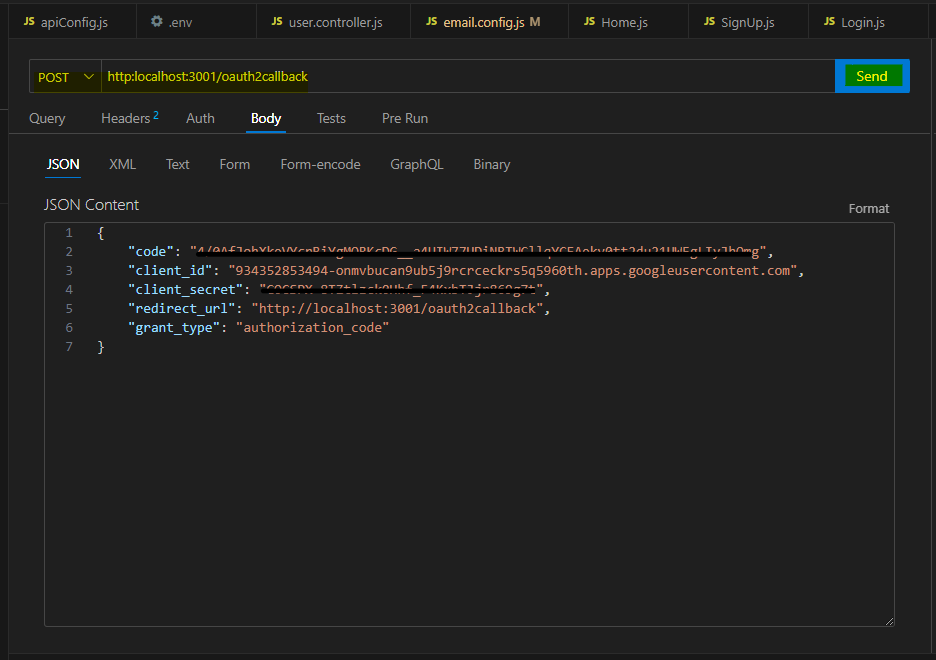
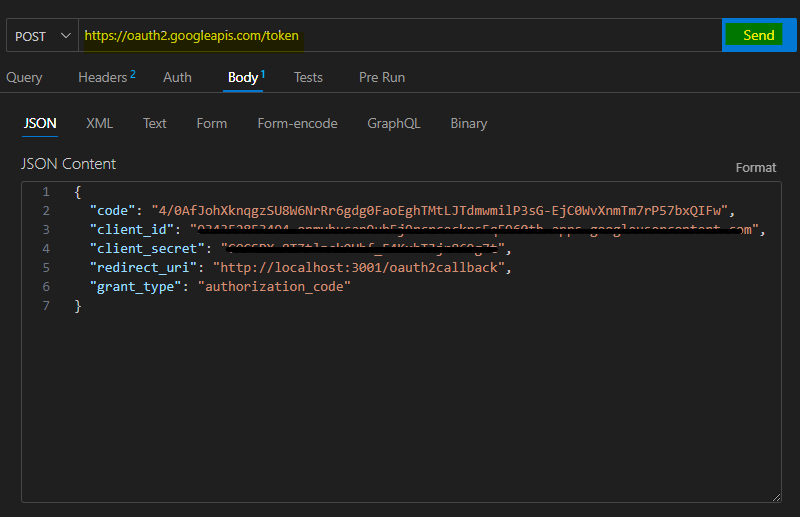
Fixed issue with wording and incorrect img

diff --git a/README.md b/README.md
@@ -376,7 +376,7 @@ client_id=[CLIENT_ID]
 ```
 
 {
-    "code": your_authorization_code_here_from_step_9,
+    "code": your_authorization_code_here_from_step_15,
     "client_id": your_client_id_here_from_step_5,
     "client_secret": your_client_secret_here_from_step_5,
     "redirect_url": "http://localhost:3001/oauth2callback",
@@ -388,11 +388,11 @@ client_id=[CLIENT_ID]
 
 ![Fill in the JSON based 'POST' Request like the screenshot and the below format](documentation/readme_resources/Thunder_Client_Extension_Post_1.png)
 
-20. Replace the current link inside the 'POST' request, and instead enter 'http:localhost:3001/oauth2callback' and press 'Send':
+20. Replace the current link inside the 'POST' request, and instead enter 'https://oauth2.googleapis.com/token' and press 'Send':
 
 <br>
 
-![Replace the current link inside the 'POST' request, and instead enter 'http:localhost:3001/oauth2callback' and press 'Send'](documentation/readme_resources/Thunder_Client_Extension_Post_2.png)
+![Replace the current link inside the 'POST' request, and instead enter 'https://oauth2.googleapis.com/token' and press 'Send'](documentation/readme_resources/Thunder_Client_Extension_Post_2.png)
 
 21. You will Receive a message back with the fields "access_token", "expires_in", "refresh_token","scope", and "token_type". Below is an explanation:
 
@@ -435,10 +435,10 @@ JWT_EXPIRATION=86400
 
 # Email configurations.
 GMAIL_USERNAME=your_gmail.com_account_you_used_for_OAuth
-GMAIL_CLIENT_ID=your_client_id_from_step_five
-GMAIL_CLIENT_SECRET=your_client_secret_from_step_five
-GMAIL_ACCESS_TOKEN=your_access_token_that_you_got_from_step_10e
-GMAIL_REFRESH_TOKEN=your_refresh_token_that_you_got_from_step_10e
+GMAIL_CLIENT_ID=your_client_id_from_step_5
+GMAIL_CLIENT_SECRET=your_client_secret_from_step_5
+GMAIL_ACCESS_TOKEN=your_access_token_that_you_got_from_step_15
+GMAIL_REFRESH_TOKEN=your_refresh_token_that_you_got_from_step_21
 
 # Front-end configurations.
 FRONTEND_URL=http://localhost:3000
